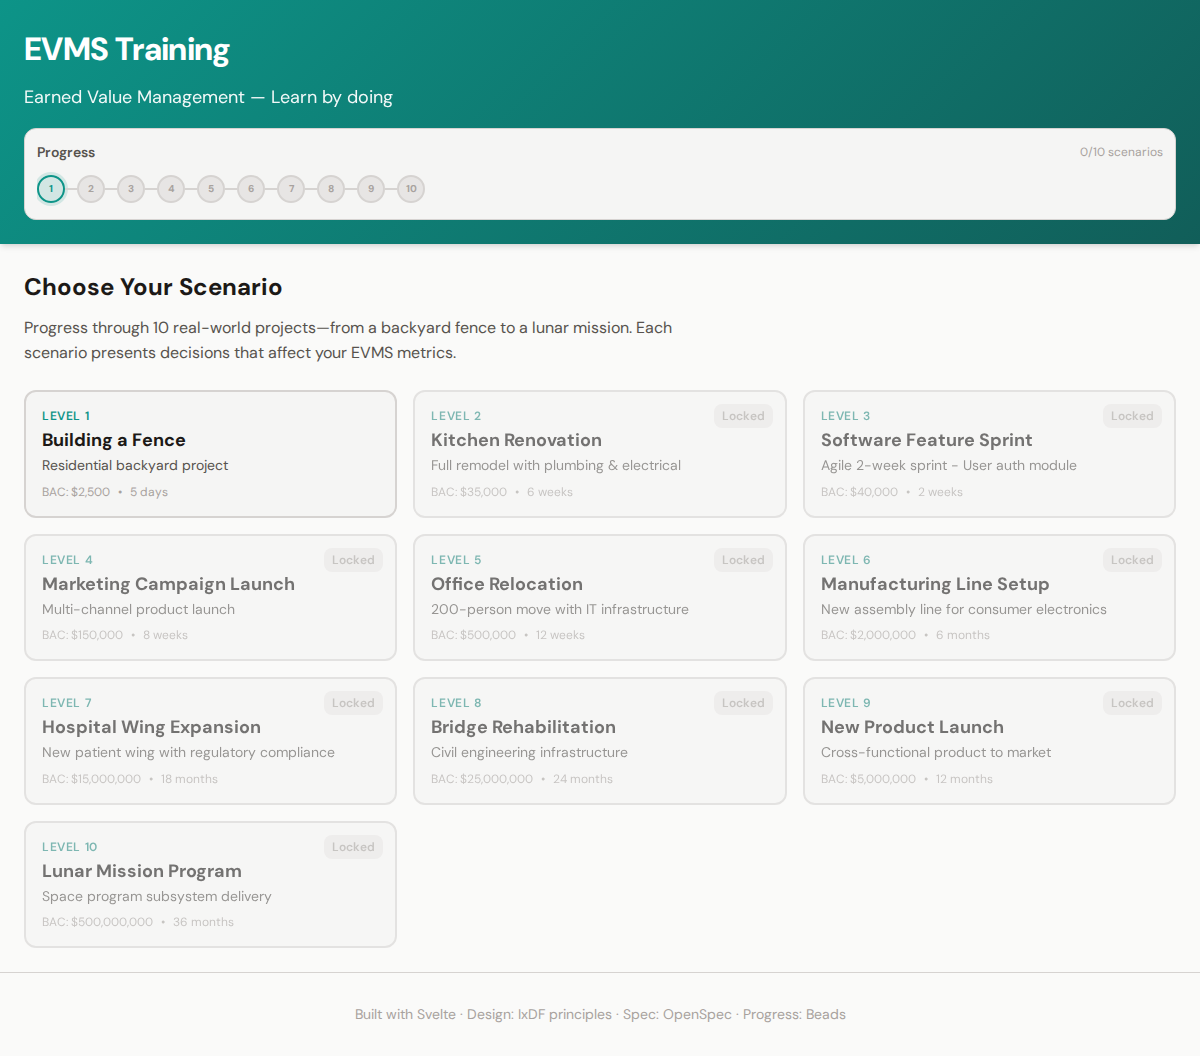
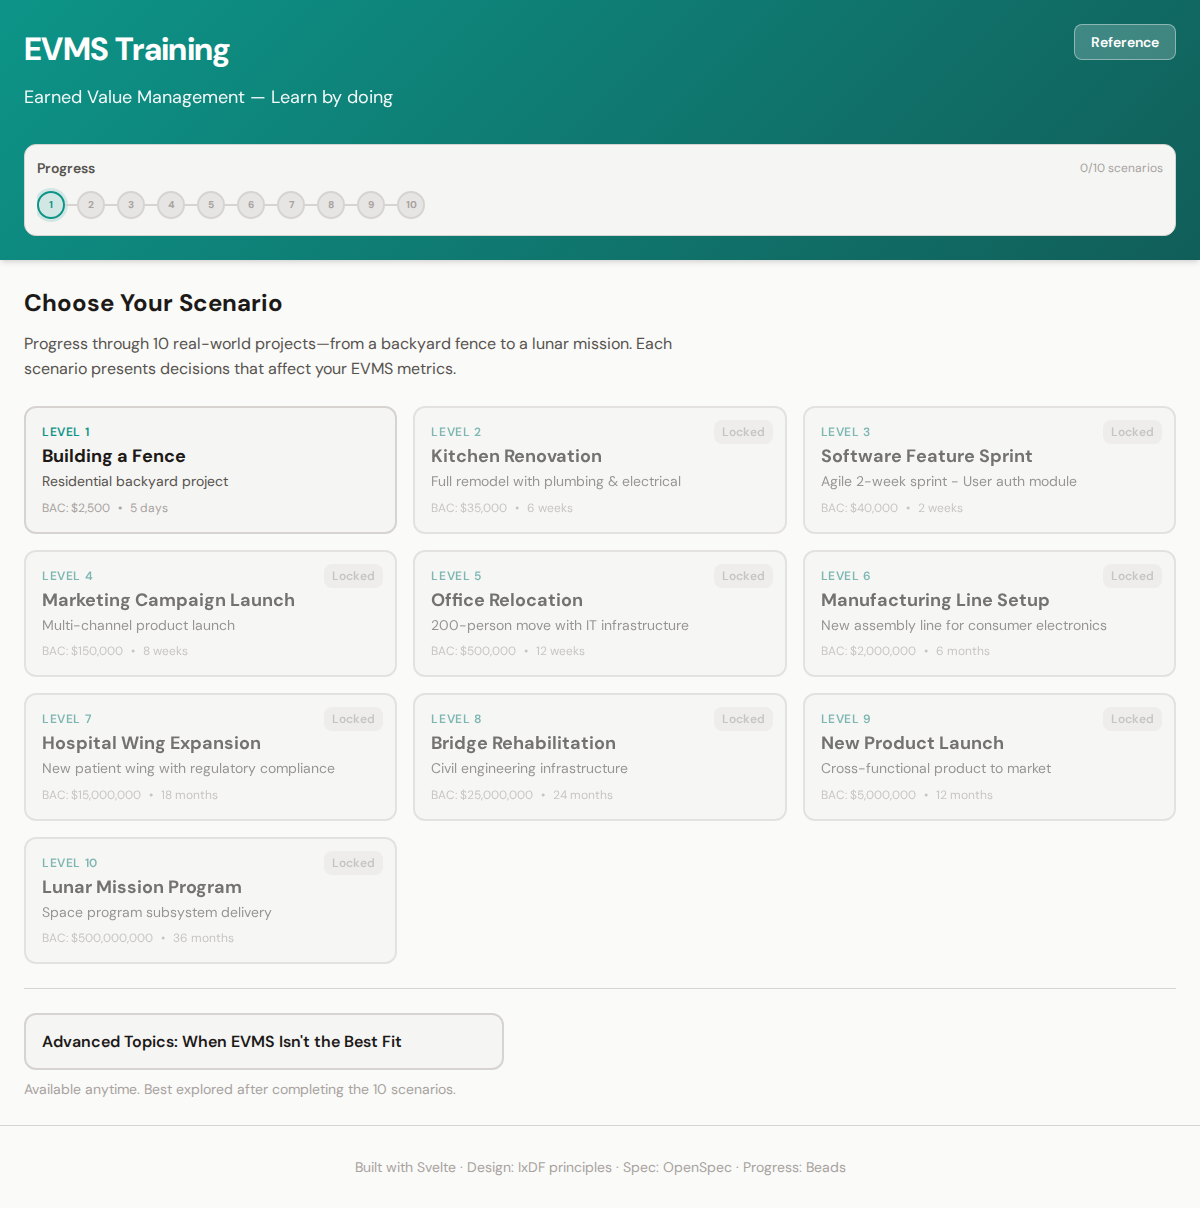
docs: Update README with screenshots, descriptions, Vercel plans
- Richer descriptions for all how-to-play sections
- Add Reference & Help section (step 6) with screenshots
- New screenshots: 06-reference-modal, 07-help-toaster
- Future Plans: Vercel deployment with vercel.json
- Revert screenshot test to stable 5-step capture

diff --git a/evms-training/README.md b/evms-training/README.md
@@ -1,6 +1,6 @@
 # EVMS Training - Interactive Earned Value Management Learning
 
-An interactive web application that trains users on **Earned Value Management System (EVMS)** through 10 incrementally challenging scenarios in a choose-your-own-adventure format.
+An interactive web application that trains users on **Earned Value Management System (EVMS)** through 10 incrementally challenging scenarios in a choose-your-own-adventure format. Learn when and how to apply EVMS—and when to use alternatives.
 
 ## Design & Progress Tracking
 
@@ -24,43 +24,55 @@ An interactive web application that trains users on **Earned Value Management Sy
 - **EVMS Metrics Tracked**: PV, EV, AC, BAC, EAC, ETC, SV, CV, SPI, CPI, VAC
 - **Choose Your Own Adventure**: Decision points affect project outcomes and metrics
 - **Progress Persistence**: Beads-style tracking with localStorage
+- **Reference Section**: Full EVMS background (core blocks, variances, indices, forecast)
+- **Help Toaster**: Quick EVMS terms lookup during gameplay
 - **Advanced Topics**: 10 scenarios when EVMS isn't the best fit (LOE, agile, R&D, etc.) with reference links—recommended after completing the 10 core scenarios
 
 ## How to Play
 
 ### 1. Choose a Scenario
 
-Start on the home screen with 10 scenarios. The first scenario (Building a Fence) is unlocked; others unlock as you complete scenarios. Each card shows the project type, budget (BAC), and duration.
+Start on the home screen with 10 scenario cards. The **Progress** beads at the top show completion (e.g., 0/10). The first scenario (Building a Fence) is unlocked; others unlock as you complete scenarios. Each card shows the project type, budget (BAC), and duration. Use the **Reference** button in the header anytime to open the EVMS background guide.
 
 ![Scenario selection](docs/screenshots/01-home-scenario-select.png)
 
+**Reference & Help**: Click **Reference** in the header for a full EVMS primer (core blocks, variances, indices, forecast metrics, and how to use them in practice). During gameplay, click **? Terms** next to the metrics panel for a slide-out glossary of PV, EV, AC, CV, SV, CPI, SPI, and more.
+
 ### 2. Read the Situation & Make Decisions
 
-When you enter a scenario, you'll see a narrative describing a project situation. The **EVMS Metrics** panel on the left tracks PV (Planned Value), EV (Earned Value), AC (Actual Cost), and derived metrics (SPI, CPI, SV, CV). Choose one of the decision options—your choice affects how the project performs.
+When you enter a scenario, you'll see a narrative describing a project situation—e.g., materials have arrived, weather is uncertain, or a key supplier has issues. The **EVMS Metrics** panel on the left tracks PV (Planned Value), EV (Earned Value), AC (Actual Cost), and derived metrics (SPI, CPI, SV, CV). Click **? Terms** for a quick glossary of any metric. Choose one of the decision options; your choice affects how the project performs.
 
 ![First turn with narrative and choices](docs/screenshots/02-gameplay-first-turn.png)
 
 ### 3. See the Impact
 
-After each choice, you'll get **feedback** on the result. The metrics update immediately to reflect your decision—green indicators show good performance, red shows problems. Progress through all turns in the scenario.
+After each choice, you'll get **feedback** explaining the result. The metrics update immediately—green borders indicate good performance (SPI/CPI ≥ 1, positive variances), red indicates problems. Use this to understand how decisions drive cost and schedule outcomes.
 
 ![Metrics update after a choice](docs/screenshots/03-after-choice-metrics.png)
 
 ### 4. Complete the Scenario
 
-When you've made all decisions for a scenario, you'll see the **Scenario Complete!** screen. Review your final EVMS metrics, then return to the scenario list.
+When you've made all decisions for a scenario, you'll see the **Scenario Complete!** screen. Review your final EVMS metrics, then click **Return to Scenarios** to continue.
 
 ![Scenario complete screen](docs/screenshots/04-scenario-complete.png)
 
 ### 5. Progress & Unlock More
 
-Returning to the list shows your **Progress** beads (e.g., 1/10 scenarios). Each completed scenario unlocks the next. Work through all 10—from a backyard fence to a lunar mission—to master EVMS through increasingly complex real-world situations.
+Returning to the list shows updated **Progress** beads (e.g., 1/10 scenarios). Each completed scenario unlocks the next. Work through all 10—from a backyard fence to a lunar mission—to master EVMS through increasingly complex real-world situations.
 
 ![Progress and next scenario unlocked](docs/screenshots/05-progress-unlocked.png)
 
-### 6. Advanced Topics (When EVMS Isn't the Best Fit)
+### 6. Reference & Help (Anytime)
 
-After completing all 10 scenarios, explore **Advanced Topics**—10 scenarios where EVMS may not be the best approach (LOE/support, agile, R&D, maintenance, creative work, emergency response, consulting/T&M, startups, compliance, innovation labs). Each topic includes why EVMS fits poorly, better alternatives, and links to PMI, GAO, NDIA, and other references.
+The **Reference** button in the header opens a modal with full EVMS background—core building blocks (PV, EV, AC), variances, indices, forecast metrics, and a "how to use in practice" walkthrough. During any scenario, the **? Terms** button beside the metrics panel opens a toaster with quick definitions for each metric to support your decisions.
+
+![Reference modal](docs/screenshots/06-reference-modal.png)
+
+![Help toaster](docs/screenshots/07-help-toaster.png)
+
+### 7. Advanced Topics (When EVMS Isn't the Best Fit)
+
+Scroll down on the main page to find **Advanced Topics**. After completing all 10 scenarios, a green banner recommends this section. It covers 10 situations where EVMS may not be the best approach—LOE/support, agile, R&D, maintenance, creative work, emergency response, consulting/T&M, startups, compliance, innovation labs. Each topic explains why EVMS fits poorly, suggests better alternatives, and links to PMI, GAO, NDIA, and other references.
 
 ---
 
@@ -86,6 +98,14 @@ npm run build
 ```
 
 Output in `dist/` — deploy to any static host.
+
+## Future Plans
+
+- **Vercel Deployment**: Host as a Vercel static site for public access. The app is a self-contained Svelte/Vite build with no backend—ideal for Vercel. `vercel.json` is configured; to deploy:
+  1. Push this repo to GitHub
+  2. Import the project in [Vercel](https://vercel.com)
+  3. Vercel will use `npm run build` and serve from `dist/`
+  4. Optional: Custom domain, analytics, or preview deployments per branch
 
 ## Testing
 
